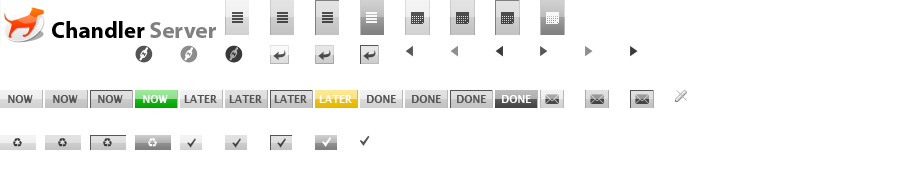
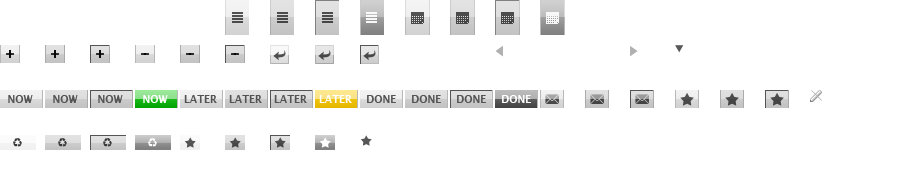
Update imagegrid and associated json and css files from latest versions at:
http://chandlerproject.org/Journal/CosmoImages

git-svn-id: http://svn.osafoundation.org/server/cosmo/trunk@6982 5fd0b11a-f2f7-0310-948e-c8f80ebed640

diff --git a/cosmo-js/src/cosmo/themes/default/imagegrid.css b/cosmo-js/src/cosmo/themes/default/imagegrid.css
@@ -15,43 +15,44 @@
 */
 .cosmoListViewDefault{height: 35px; width: 24px; background-position: -225px 0px; background-image: url(images/image_grid.png);}
 .cosmoCalViewDefault{height: 35px; width: 25px; background-position: -405px 0px; background-image: url(images/image_grid.png);}
-.cosmoReadOnlyIcon{height: 12px; width: 12px; background-position: -675px -90px; background-image: url(images/image_grid.png);}
+.cosmoReadOnlyIcon{height: 12px; width: 12px; background-position: -810px -90px; background-image: url(images/image_grid.png);}
+.cosmoTaskButtonDefault{height: 18px; width: 24px; background-position: -675px -90px; background-image: url(images/image_grid.png);}
 .cosmoEnterSelected{height: 19px; width: 19px; background-position: -360px -45px; background-image: url(images/image_grid.png);}
-.cosmoPreviousRollover{height: 12px; width: 8px; background-position: -450px -45px; background-image: url(images/image_grid.png);}
-.cosmoTaskColumnDefaultRollover{height: 15px; width: 20px; background-position: -225px -135px; background-image: url(images/image_grid.png);}
-.cosmoTriageStatusColumnDefaultRollover{height: 15px; width: 36px; background-position: -45px -135px; background-image: url(images/image_grid.png);}
+.cosmoPreviousRollover{height: 10px; width: 7px; background-position: -450px -45px; background-image: url(images/image_grid.png);}
 .cosmoCalViewSelected{height: 35px; width: 25px; background-position: -540px 0px; background-image: url(images/image_grid.png);}
-.cosmoNextSelected{height: 12px; width: 8px; background-position: -630px -45px; background-image: url(images/image_grid.png);}
-.cosmoNextRollover{height: 12px; width: 8px; background-position: -585px -45px; background-image: url(images/image_grid.png);}
-.cosmoTriageStatusColumnSelectedRollover{height: 15px; width: 36px; background-position: -135px -135px; background-image: url(images/image_grid.png);}
+.cosmoNextSelected{height: 10px; width: 7px; background-position: -630px -45px; background-image: url(images/image_grid.png);}
+.cosmoNextRollover{height: 10px; width: 7px; background-position: -585px -45px; background-image: url(images/image_grid.png);}
 .cosmoEnterRollover{height: 19px; width: 19px; background-position: -315px -45px; background-image: url(images/image_grid.png);}
-.cosmoPreviousDefault{height: 12px; width: 8px; background-position: -405px -45px; background-image: url(images/image_grid.png);}
-.cosmoPreviousSelected{height: 12px; width: 8px; background-position: -495px -45px; background-image: url(images/image_grid.png);}
-.cosmoShowLinkRollover{height: 18px; width: 18px; background-position: -180px -45px; background-image: url(images/image_grid.png);}
+.cosmoPreviousDefault{height: 10px; width: 7px; background-position: -405px -45px; background-image: url(images/image_grid.png);}
+.cosmoTriageStatusColumnSelected{height: 15px; width: 36px; background-position: -135px -135px; background-image: url(images/image_grid.png);}
+.cosmoPreviousSelected{height: 10px; width: 7px; background-position: -495px -45px; background-image: url(images/image_grid.png);}
+.cosmoNewCollectionDefault{height: 18px; width: 18px; background-position: 0px -45px; background-image: url(images/image_grid.png);}
+.cosmoPulldown{height: 8px; width: 9px; background-position: -675px -45px; background-image: url(images/image_grid.png);}
+.cosmoRemoveCollectionDefault{height: 18px; width: 18px; background-position: -135px -45px; background-image: url(images/image_grid.png);}
 .cosmoTriageNowButtonDefault{height: 18px; width: 43px; background-position: 0px -90px; background-image: url(images/image_grid.png);}
 .cosmoEmailButtonDefault{height: 18px; width: 24px; background-position: -540px -90px; background-image: url(images/image_grid.png);}
 .cosmoListViewRollover{height: 35px; width: 24px; background-position: -270px 0px; background-image: url(images/image_grid.png);}
 .cosmoTriageDoneButtonSelected{height: 18px; width: 43px; background-position: -495px -90px; background-image: url(images/image_grid.png);}
 .cosmoTriageDoneButtonDefault{height: 18px; width: 43px; background-position: -360px -90px; background-image: url(images/image_grid.png);}
-.cosmoShowLinkDefault{height: 18px; width: 18px; background-position: -135px -45px; background-image: url(images/image_grid.png);}
-.cosmoCollectionDetailsDefault{height: 12px; width: 6px; background-position: 0px -45px; background-image: url(images/image_grid.png);}
+.cosmoCollectionDetails{height: 7px; width: 10px; background-position: -720px -45px; background-image: url(images/image_grid.png);}
 .cosmoTaskColumnSelected{height: 15px; width: 20px; background-position: -315px -135px; background-image: url(images/image_grid.png);}
-.cosmoListViewTaskIcon{height: 12px; width: 12px; background-position: -360px -135px; background-image: url(images/image_grid.png);}
-.cosmoShowLinkSelected{height: 18px; width: 18px; background-position: -225px -45px; background-image: url(images/image_grid.png);}
+.cosmoTaskButtonRollover{height: 18px; width: 24px; background-position: -720px -90px; background-image: url(images/image_grid.png);}
+.cosmoListViewTaskIcon{height: 11px; width: 12px; background-position: -360px -135px; background-image: url(images/image_grid.png);}
+.cosmoNewCollectionSelected{height: 18px; width: 18px; background-position: -90px -45px; background-image: url(images/image_grid.png);}
 .cosmoTriageLaterButtonSelected{height: 18px; width: 43px; background-position: -315px -90px; background-image: url(images/image_grid.png);}
-.cosmoTriageLaterButtonRollover{height: 18px; width: 43px; background-position: -225px -90px; background-image: url(images/image_grid.png);}
-.cosmoTaskColumnSelectedRollover{height: 15px; width: 20px; background-position: -315px -135px; background-image: url(images/image_grid.png);}
-.cosmoMainLogoGraphic{height: 45px; width: 216px; background-position: 0px 0px; background-image: url(images/image_grid.png);}
+.cosmoTriageLaterButtonDefault{height: 18px; width: 43px; background-position: -180px -90px; background-image: url(images/image_grid.png);}
+.cosmoRemoveCollectionSelected{height: 18px; width: 18px; background-position: -225px -45px; background-image: url(images/image_grid.png);}
 .cosmoTriageNowButtonSelected{height: 18px; width: 43px; background-position: -135px -90px; background-image: url(images/image_grid.png);}
 .cosmoTriageDoneButtonRollover{height: 18px; width: 43px; background-position: -405px -90px; background-image: url(images/image_grid.png);}
 .cosmoEmailButtonRollover{height: 18px; width: 24px; background-position: -585px -90px; background-image: url(images/image_grid.png);}
-.cosmoTriageStatusColumnSelected{height: 15px; width: 36px; background-position: -135px -135px; background-image: url(images/image_grid.png);}
+.cosmoRemoveCollectionRollover{height: 18px; width: 18px; background-position: -180px -45px; background-image: url(images/image_grid.png);}
 .cosmoTriageNowButtonRollover{height: 18px; width: 43px; background-position: -45px -90px; background-image: url(images/image_grid.png);}
-.cosmoNextDefault{height: 12px; width: 8px; background-position: -540px -45px; background-image: url(images/image_grid.png);}
+.cosmoNextDefault{height: 10px; width: 7px; background-position: -540px -45px; background-image: url(images/image_grid.png);}
 .cosmoTaskColumnDefault{height: 15px; width: 20px; background-position: -180px -135px; background-image: url(images/image_grid.png);}
 .cosmoCalViewRollover{height: 35px; width: 25px; background-position: -450px 0px; background-image: url(images/image_grid.png);}
 .cosmoEnterDefault{height: 19px; width: 19px; background-position: -270px -45px; background-image: url(images/image_grid.png);}
 .cosmoListViewSelected{height: 35px; width: 24px; background-position: -360px 0px; background-image: url(images/image_grid.png);}
+.cosmoNewCollectionRollover{height: 18px; width: 18px; background-position: -45px -45px; background-image: url(images/image_grid.png);}
 .cosmoTriageStatusColumnDefault{height: 15px; width: 36px; background-position: 0px -135px; background-image: url(images/image_grid.png);}
-.cosmoTriageLaterButtonDefault{height: 18px; width: 43px; background-position: -180px -90px; background-image: url(images/image_grid.png);}
+.cosmoTriageLaterButtonRollover{height: 18px; width: 43px; background-position: -225px -90px; background-image: url(images/image_grid.png);}
 
